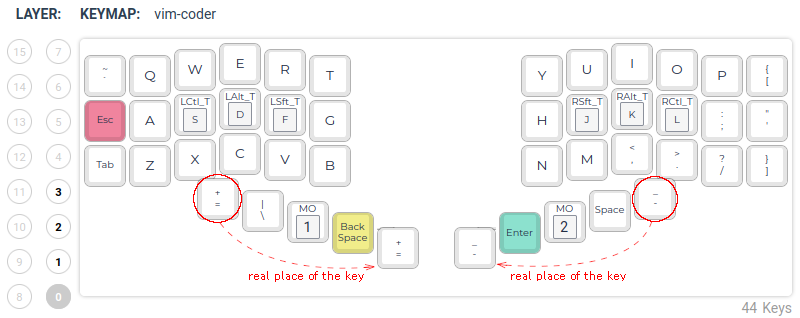
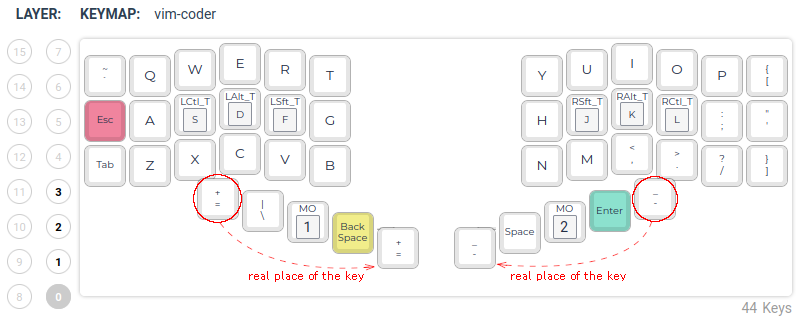
Swap Space and Enter keys to place Space and BackSpace symmetrically

Changed region(s): [[0.7188, 0.5943, 0.8125, 0.7358], [0.625, 0.6509, 0.6875, 0.7925]]

diff --git a/keyboards/elcantorhs/keymaps/vim-coder/keymap.c b/keyboards/elcantorhs/keymaps/vim-coder/keymap.c
@@ -7,13 +7,13 @@ const uint16_t PROGMEM keymaps[][MATRIX_ROWS][MATRIX_COLS] = {
         KC_GRV,         KC_Q,          KC_W,         KC_E,         KC_R,         KC_T,    /* | */    KC_Y,         KC_U,         KC_I,         KC_O,         KC_P,         KC_LBRC,
         KC_ESC,         KC_A,          LCTL_T(KC_S), LALT_T(KC_D), LSFT_T(KC_F), KC_G,    /* | */    KC_H,         RSFT_T(KC_J), RALT_T(KC_K), RCTL_T(KC_L), KC_SCLN,      KC_QUOT,
         KC_TAB,         KC_Z,          KC_X,         KC_C,         KC_V,         KC_B,    /* | */    KC_N,         KC_M,         KC_COMM,      KC_DOT,       KC_SLSH,      KC_RBRC,
-                                       KC_EQL,       KC_BSLS,      MO(1),        KC_BSPC, /* | */    KC_ENT,       MO(2),        KC_SPC,       KC_MINS
+                                       KC_EQL,       KC_BSLS,      MO(1),        KC_BSPC, /* | */    KC_SPC,       MO(2),        KC_ENT,       KC_MINS
     ),
     [1] = LAYOUT(
         KC_GRV,         KC_EXLM,       KC_AT,        KC_HASH,      KC_DLR,       KC_PERC, /* | */    KC_CIRC,      KC_AMPR,      KC_ASTR,      KC_LPRN,      KC_RPRN,      KC_EQL,
         KC_ESC,         KC_1,          LCTL_T(KC_2), LALT_T(KC_3), LSFT_T(KC_4), KC_5,    /* | */    KC_6,         RSFT_T(KC_7), RALT_T(KC_8), RCTL_T(KC_9), KC_0,         KC_MINS,
         KC_TAB,         KC_NO,         KC_NO,        KC_NO,        KC_NO,        KC_NO,   /* | */    KC_NO,        KC_NO,        KC_COMM,      KC_DOT,       KC_SLSH,      KC_BSLS,
-                                       KC_NO,        KC_NO,        KC_TRNS,      KC_NO,   /* | */    KC_ENT,       MO(3),        KC_SPC,       KC_MINS
+                                       KC_NO,        KC_NO,        KC_TRNS,      KC_NO,   /* | */    KC_SPC,       MO(3),        KC_ENT,       KC_MINS
     ),
     [2] = LAYOUT(
         KC_NO,          KC_NO,         KC_NO,        KC_NO,        KC_NO,        KC_PSCR, /* | */    KC_NO,        KC_HOME,      KC_PGUP,      KC_NO,        KC_NO,        KC_INS,
